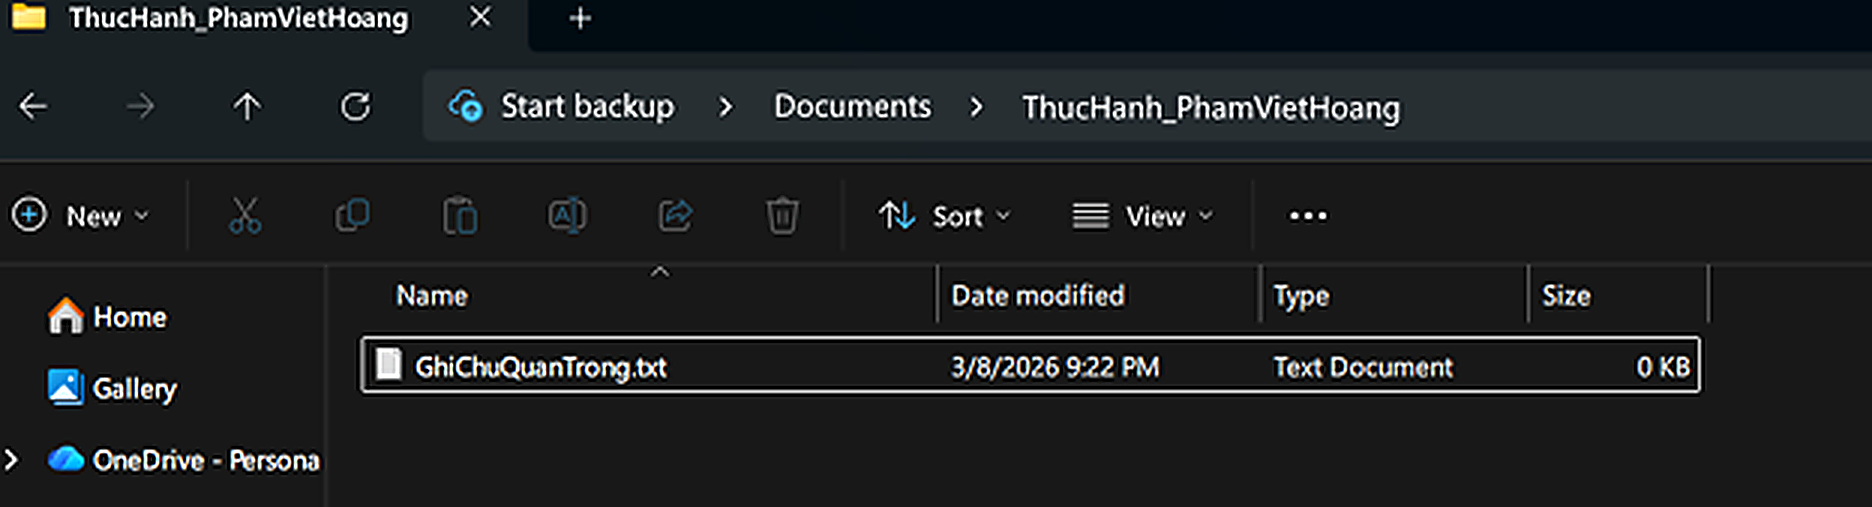
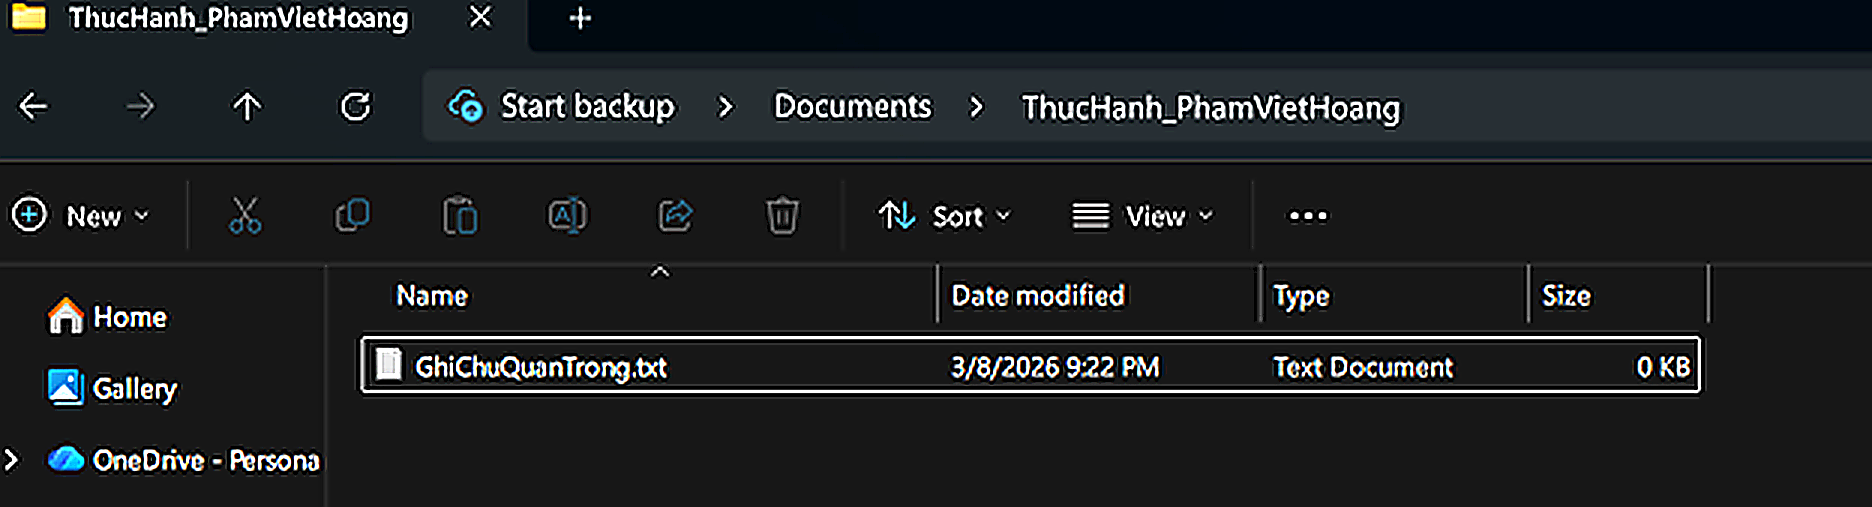
Sharpen lesson one evidence images

diff --git a/styles.css b/styles.css
@@ -4,7 +4,7 @@
 
 .close-dialog{position:fixed!important;top:18px!important;right:18px!important;left:auto!important;margin:0!important;background:rgba(255,255,255,.9)!important;box-shadow:0 10px 28px rgba(7,23,34,.18)}@media(max-width:700px){#dialogContent{width:calc(100vw - 24px);padding-top:58px}}
 .step-evidence{width:max-content;max-width:100%;margin:-2px 0 18px 78px;padding:12px;background:#fff;border:1px solid rgba(16,32,47,.12);border-radius:8px;box-shadow:0 14px 32px rgba(7,23,34,.08)}.step-evidence-link{display:block;width:min(100%,1100px);max-width:100%;cursor:zoom-in}.step-evidence img{display:block;width:100%;max-width:100%;height:auto;object-fit:contain;border-radius:6px;background:#f4f8fb;image-rendering:-webkit-optimize-contrast}@media(max-width:700px){.step-evidence{width:100%;margin:0 0 16px;padding:8px}.step-evidence-link{margin:0 auto}}
-.step-evidence.bai-1 .step-evidence-link{width:min(100%,var(--evidence-width));max-width:100%}.step-evidence.bai-1 img{width:100%;max-width:100%}
+.step-evidence.bai-1{width:calc(100% - 78px)}.step-evidence.bai-1 .step-evidence-link{width:100%;max-width:1100px}.step-evidence.bai-1 img{width:100%;max-width:100%;filter:contrast(1.03) saturate(1.02)}@media(max-width:700px){.step-evidence.bai-1{width:100%}}
 
 .viewer-open{overflow:hidden}.image-viewer[hidden]{display:none}.image-viewer{position:fixed;inset:0;z-index:1000;display:grid;grid-template-rows:auto minmax(0,1fr);color:#e9fbff;background:rgba(4,13,19,.96);backdrop-filter:blur(12px)}.image-viewer-toolbar{display:flex;align-items:center;justify-content:center;gap:8px;padding:10px 14px;background:#071722;border-bottom:1px solid rgba(255,255,255,.16)}.image-viewer-toolbar strong{margin-right:12px}.image-viewer-toolbar button{min-height:38px;padding:0 13px;color:#e9fbff;background:#143544;border:1px solid rgba(255,255,255,.18);border-radius:8px;cursor:pointer;font-weight:800}.image-viewer-toolbar button:hover{color:#071722;background:var(--lime)}.image-viewer-stage{overflow:auto;padding:20px;text-align:center}.image-viewer-stage img{display:block;max-width:none;height:auto;margin:0 auto;background:#fff;box-shadow:0 24px 80px rgba(0,0,0,.45)}
 

diff --git a/script.js b/script.js
@@ -36,10 +36,6 @@ const evidenceStepMap = {
   },
 };
 
-const evidenceDisplayWidths = {
-  "bai-1": [466, 624, 613, 624, 624, 624, 624, 624, 624, 624, 624, 624, 624],
-};
-
 const tags = {
   "bai-1": ["File Explorer", "Quản lý dữ liệu", "An toàn tập tin"],
   "bai-2": ["Elicit", "Graphene", "Pin Li-S"],
@@ -82,12 +78,10 @@ function stepEvidence(page, index) {
   const mappedSteps = evidenceStepMap[page.slug];
   const imageIndex = mappedSteps ? mappedSteps[index] : index <= count ? index : null;
   if (!imageIndex) return "";
-  const imageSrc = `assets/evidence-steps/${page.slug}/step-${imageIndex}.png?v=clarity-3x`;
-  const displayWidth = evidenceDisplayWidths[page.slug]?.[imageIndex - 1];
-  const figureStyle = displayWidth ? ` style="--evidence-width:${displayWidth}px"` : "";
+  const imageSrc = `assets/evidence-steps/${page.slug}/step-${imageIndex}.png?v=clarity-sharp`;
 
   return `
-    <figure class="step-evidence ${page.slug}"${figureStyle}>
+    <figure class="step-evidence ${page.slug}">
       <a class="step-evidence-link" href="${imageSrc}" data-full-image="${imageSrc}" title="Mở ảnh toàn màn hình">
         <img src="${imageSrc}" alt="Hình ảnh quy trình ${page.section} bước ${index}" loading="lazy" decoding="async">
       </a>

diff --git a/index.html b/index.html
@@ -9,7 +9,7 @@
   <link rel="preconnect" href="https://fonts.googleapis.com">
   <link rel="preconnect" href="https://fonts.gstatic.com" crossorigin>
   <link href="https://fonts.googleapis.com/css2?family=Be+Vietnam+Pro:wght@400;500;600;700;800&family=Lora:wght@600;700&display=swap" rel="stylesheet">
-  <link rel="stylesheet" href="styles.css?v=portfolio-polish-6">
+  <link rel="stylesheet" href="styles.css?v=portfolio-polish-7">
 </head>
 <body>
   <a class="skip-link" href="#main-content">Bỏ qua điều hướng</a>
@@ -81,7 +81,7 @@
     </div>
   </dialog>
   <script src="portfolio-data.js"></script>
-  <script src="report-data.js?v=portfolio-polish-6"></script>
-  <script src="script.js?v=portfolio-polish-6"></script>
+  <script src="report-data.js?v=portfolio-polish-7"></script>
+  <script src="script.js?v=portfolio-polish-7"></script>
 </body>
 </html>
